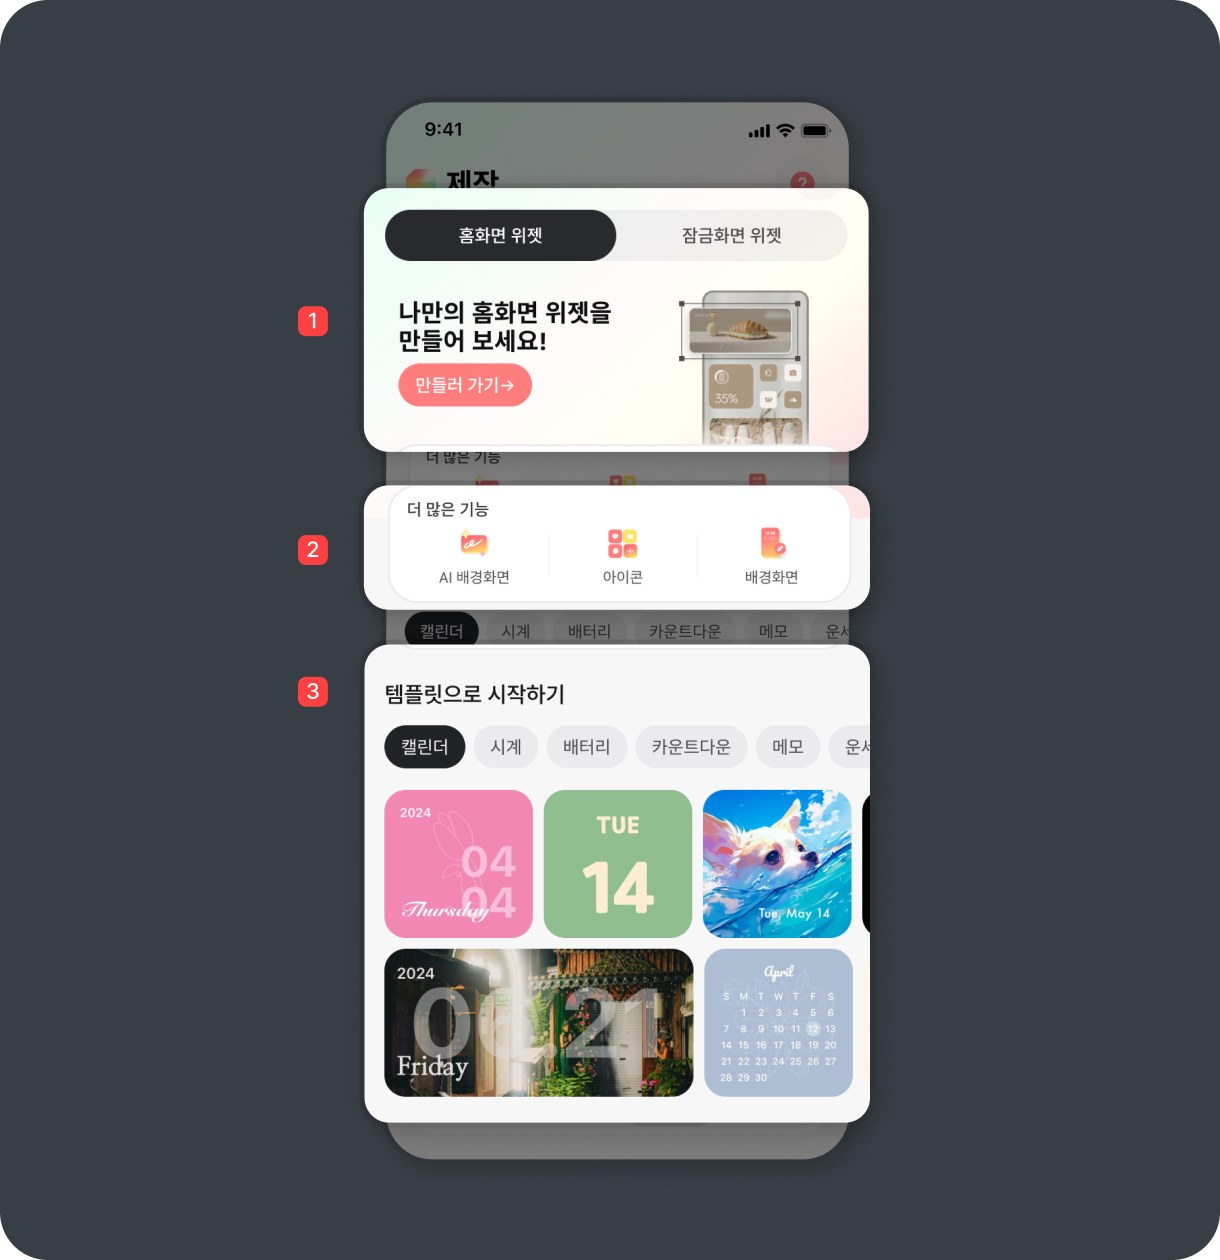
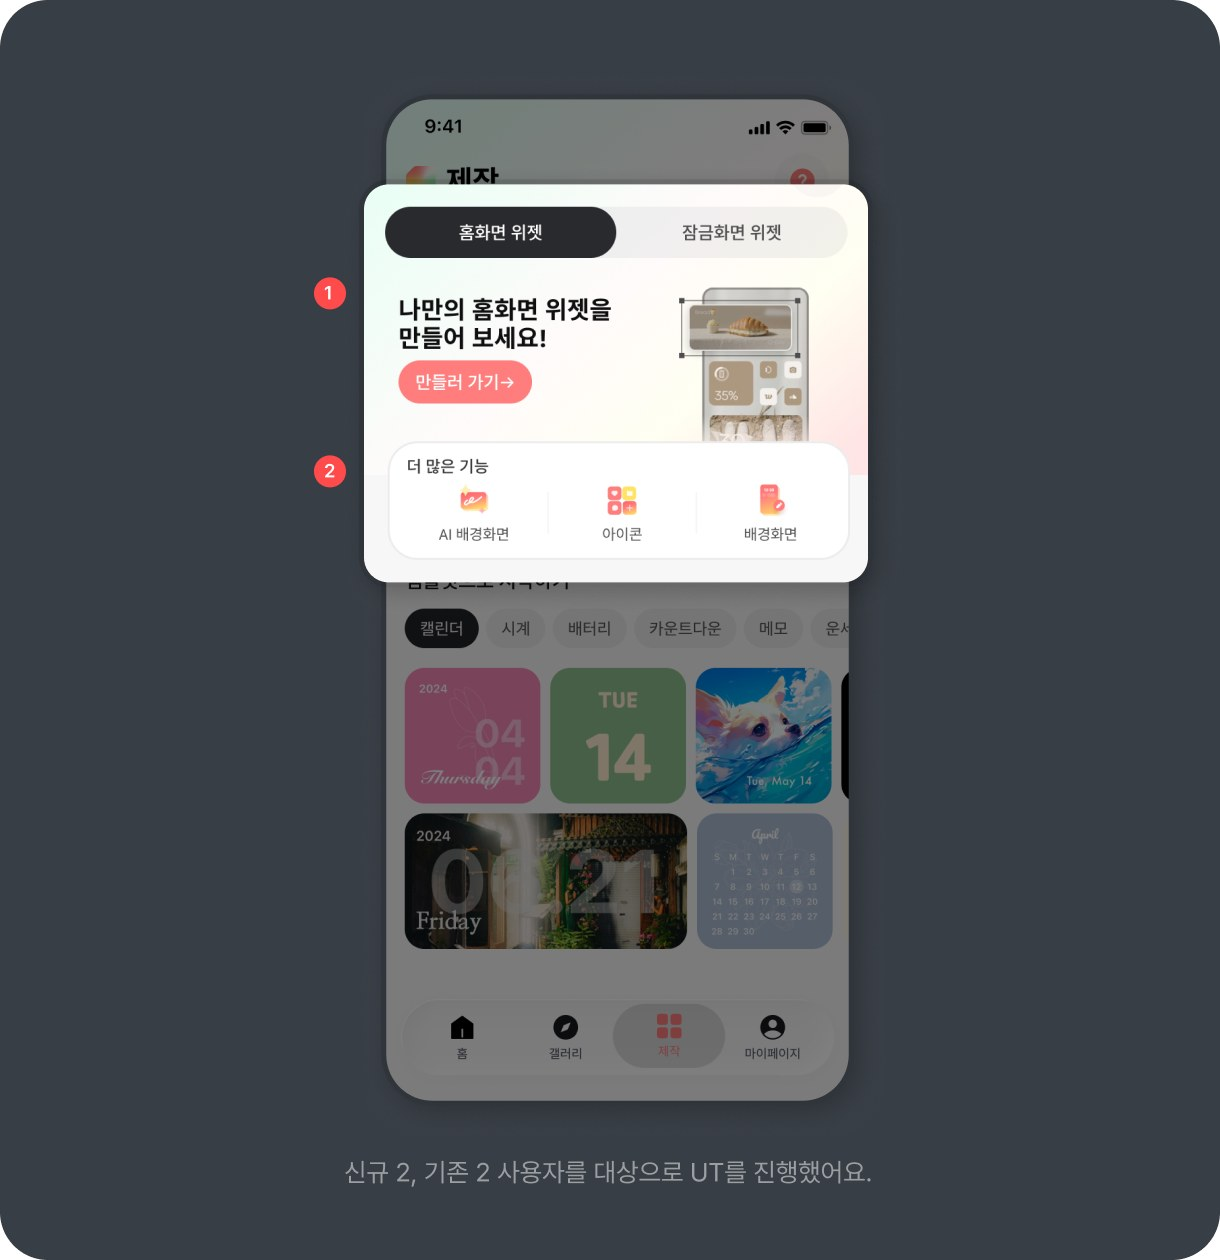
Widget-tab: sync KPI/Strategy text, Initial Design Approach, new UT and full-width Solution

Changed region(s): [[0.218, 0.0619, 0.7164, 0.9595], [0.218, 0.2167, 0.2803, 0.2786]]

diff --git a/docs/projects/photowidget-widget-tab/index.html b/docs/projects/photowidget-widget-tab/index.html
@@ -50,9 +50,9 @@
     <img class="shot" src="/yoojin-portfolio/assets/widget-tab/kpi.jpg?v=2" width="1240" height="388" alt="상위 목표와 KPI 01 유입, KPI 02 제작 시작 구조" />
     <div class="sec-text text-col">
       <p class="caption">KPI</p>
-      <h2>제작 탭 진입을 유도하고 위젯 제작으로 이어지게 한다</h2>
+      <h2>제작 탭 진입을 유도해 위젯 제작으로 이어지게 한다</h2>
       <div class="body body-reg">
-        <p>앞서 확인한 문제를 바탕으로 두 가지 KPI를 설정했어요. 첫 번째는 더 많은 사용자가 제작 탭에 진입하도록 유도해 위젯 제작으로 연결할 수 있는 사용자 모수를 확대하는 것, 두 번째는 탭에 진입한 사용자가 위젯 제작을 시작하도록 유도해 편집 화면 진입률을 높이는 것이에요.</p>
+        <p>앞서 확인한 문제를 바탕으로 두 가지 KPI를 설정했어요. 첫 번째는 제작 탭 진입률을 높여 위젯 제작으로 이어질 수 있는 사용자 모수를 확대하는 것, 두 번째는 탭에 진입한 사용자가 위젯 제작을 시작하도록 유도해 편집 화면 진입률을 높이는 것이에요.</p>
       </div>
     </div>
   </section>
@@ -61,48 +61,43 @@
     <img class="shot" src="/yoojin-portfolio/assets/widget-tab/strategy.jpg?v=3" width="1240" height="630" alt="기존 제작 탭과 사용자 유형 두 가지: 만들고 싶은 위젯이 정해진 사용자는 편집 화면으로 빠르게 진입, 앱을 둘러보다 진입한 탐색 사용자는 위젯 콘텐츠를 탐색해 만들기 시작하도록 유도" />
     <div class="sec-text text-col">
       <p class="caption">UX Strategy</p>
-      <h2>사용자의 탭 진입 목적에 맞춰 제작 탭을 재구성해 위젯 제작 유도하기</h2>
+      <h2>사용자의 탭 진입 목적에 맞춰 제작 탭을 재구성해 위젯 만들기 유도하기</h2>
       <div class="body body-reg">
-        <p>기존 제작 탭은 여러 기능의 진입점만 제공해, 위젯 제작을 충분히 유도하지 못했어요. 이를 해결하기 위해 제작 탭에 진입하는 사용자 시나리오를 그려 두 유형으로 구분하고, 각 상황에 필요한 경험을 제공하고자 했어요.<br />하나는 위젯을 만들러 온 사용자가 편집 화면에 빠르게 진입하도록 하는 것, 다른 하나는 앱을 둘러보다 제작 탭에 진입한 사용자가 위젯 콘텐츠를 발견하고 이를 계기로 만들기 화면에 진입하도록 하는 것이에요.</p>
+        <p>기존 제작 탭은 여러 기능의 진입점만 제공해, 위젯 제작을 충분히 유도하지 못했어요. 이를 해결하기 위해 제작 탭에 진입하는 사용자 시나리오를 두 유형으로 구분하고, 각 경험에 필요한 기능을 제공하고자 했어요.<br />하나는 위젯을 만들러 온 사용자가 편집 화면에 바로 진입하도록 하는 것, 다른 하나는 제작 탭을 둘러보는 사용자가 위젯 콘텐츠를 발견하고, 이를 통해 위젯 만들기를 시작하도록 하는 것이에요.</p>
       </div>
     </div>
   </section>
 
-  <section class="sec split split-tight">
+  <section class="sec split">
     <img class="shot" src="/yoojin-portfolio/assets/widget-tab/draft.jpg?v=1" width="610" height="630" alt="1차 시안: 위젯 만들기 진입점, 더 많은 기능 숏컷, 템플릿 영역에 1~3 번호 표시" />
     <div class="sec-text">
-      <p class="caption">Draft</p>
-      <h2>기존 기능의 접근성을 유지하며 위젯 제작과 탐색 중심으로 화면 설계</h2>
+      <p class="caption">Initial Design Approach</p>
+      <h2>기존 기능의 접근성을 유지하며 위젯을 중점으로 화면 설계</h2>
       <div class="body body-reg">
-        <p>위젯 만들기를 중심으로 제작 탭을 재구성하되, 기존 사용자의 이용 방식에 미치는 영향을 최소화하고자 했어요. 이에 다른 기능의 진입점은 유지하면서 시각적 우선순위를 조정하고, 콘텐츠 탐색 경험을 추가하는 방향으로 다음 세 가지 요소를 중심으로 시안을 설계했어요.</p>
+        <p>기존 제작 탭에는 위젯을 만들러 온 사용자뿐 아니라 다른 기능을 이용하기 위해 진입하는 사용자도 있었어요. 따라서 기존 기능의 접근성을 유지하면서 위젯 만들기를 중심으로 화면을 설계했어요.</p>
         <ol class="points points-draft">
-          <li><strong>빠른 편집 화면 진입을 위해 ‘위젯 만들기’를 최상단에 크게 배치</strong></li>
-          <li><strong>기존 기능은 그대로 제공하되, 숏컷으로 축소해 시각적 위계 조정</strong></li>
-          <li><strong>위젯을 탐색하며 만들기를 시작할 수 있도록 다양한 템플릿 제공</strong></li>
+          <li><strong>위젯 만들기 진입점을 화면 최상단에 배치해 핵심 기능 강조</strong></li>
+          <li><strong>다른 기능의 진입점은 그대로 제공하되, 숏컷으로 축소해 시각적 위계 조정</strong></li>
+          <li><strong>예시 템플릿을 제공해 콘텐츠 탐색을 통한 위젯 만들기 유도</strong></li>
         </ol>
       </div>
     </div>
   </section>
 
-  <section class="sec split split-tight">
-    <img class="shot" src="/yoojin-portfolio/assets/widget-tab/ut.jpg?v=1" width="610" height="630" alt="UT 결과: 1차 시안의 진입점, 더 많은 기능, 템플릿 영역에 1~3 번호 표시" />
+  <section class="sec split">
+    <img class="shot" src="/yoojin-portfolio/assets/widget-tab/ut.jpg?v=2" width="610" height="630" alt="UT 화면: 1차 시안의 위젯 만들기 진입점(1)과 더 많은 기능(2) 영역 표시. 신규 2, 기존 2 사용자를 대상으로 UT를 진행했어요." />
     <div class="sec-text">
       <p class="caption">Usability Test</p>
-      <h2>한 화면에 많은 걸 담다 보니, 정작 위젯 만들기와 템플릿은 눈에 띄지 않았다</h2>
+      <h2>탬플릿은 긍정적이였지만, 제작 진입점이 잘 보이지 않았다</h2>
       <div class="body body-reg">
-        <p>신규 2, 기존 2 사용자를 대상으로 UT를 진행했어요.</p>
-        <ol class="points points-red">
-          <li><strong>만들기 진입점을 4명 중 2명이 배너로 인식했어요.</strong>그래픽에 시선이 분산되면서 정작 만들기 진입점은 잘 발견하지 못했어요.</li>
-          <li><strong>다른 기능은 주로 Home에서 접근했어요.</strong>제작 탭에 남겨둔 진입점의 필요성을 재검토하고, 위젯 만들기에 집중하기로 했어요.</li>
-          <li><strong>템플릿은 첫 번째 태그 위주로 탐색했어요.</strong>다른 태그에 더 많은 템플릿이 있다는 사실을 인식하지 못했어요.</li>
-        </ol>
+        <p>개선한 제작 탭이 위젯 만들기를 유도할 수 있는지 확인하기 위해 UT를 진행했어요. 템플릿에 대한 관심은 긍정적이었지만, 위젯 만들기 진입점을 찾는데 어려움이 있었어요. 또한 기존 사용자를 고려해 유지한 다른 기능의 진입점은 거의 사용하지 않았어요. 여러 기능을 함께 배치한 화면 구성이 오히려 시선을 분산시켜, 위젯 만들기 진입점에 대한 주목도를 낮췄다고 판단했어요.<br />이를 통해 위젯 제작 유도라는 핵심 목표를 달성하는 데 소수 사용자의 기존 접근성을 유지하는 것이 유의미한지 재검토하게 됐어요.</p>
       </div>
     </div>
   </section>
 
-  <section class="sec split split-tight">
-    <img class="shot" src="/yoojin-portfolio/assets/widget-tab/solution.jpg?v=1" width="610" height="630" alt="리뉴얼한 위젯 탭 화면" />
-    <div class="sec-text">
+  <section class="sec">
+    <img class="shot" src="/yoojin-portfolio/assets/widget-tab/solution.jpg?v=2" width="1240" height="630" alt="리뉴얼한 위젯 탭 화면" />
+    <div class="sec-text text-col">
       <p class="caption">Solution</p>
       <h2>위젯 전용 탭으로 리뉴얼: 진입점은 심플하게, 탐색은 한눈에 보이도록</h2>
       <div class="body body-reg">

diff --git a/docs/site.css b/docs/site.css
@@ -289,3 +289,6 @@ a.card:hover .ph { opacity: .75; }
 .case-tab .split .body .points-draft li:first-child { border-top: 0; }
 .case-tab .split .body .points-draft li:last-child { border-bottom: 0; }
 .case-tab .split .body .points-draft li::before { left: 10px; top: 18.5px; }
+.case-tab .sec:not(.split) .body .points { margin: 27px 0 0; }
+.case-tab .sec:not(.split) .body .points li { padding-top: 15px; padding-bottom: 15px; }
+.case-tab .sec:not(.split) .body .points li::before { top: 16px; }
